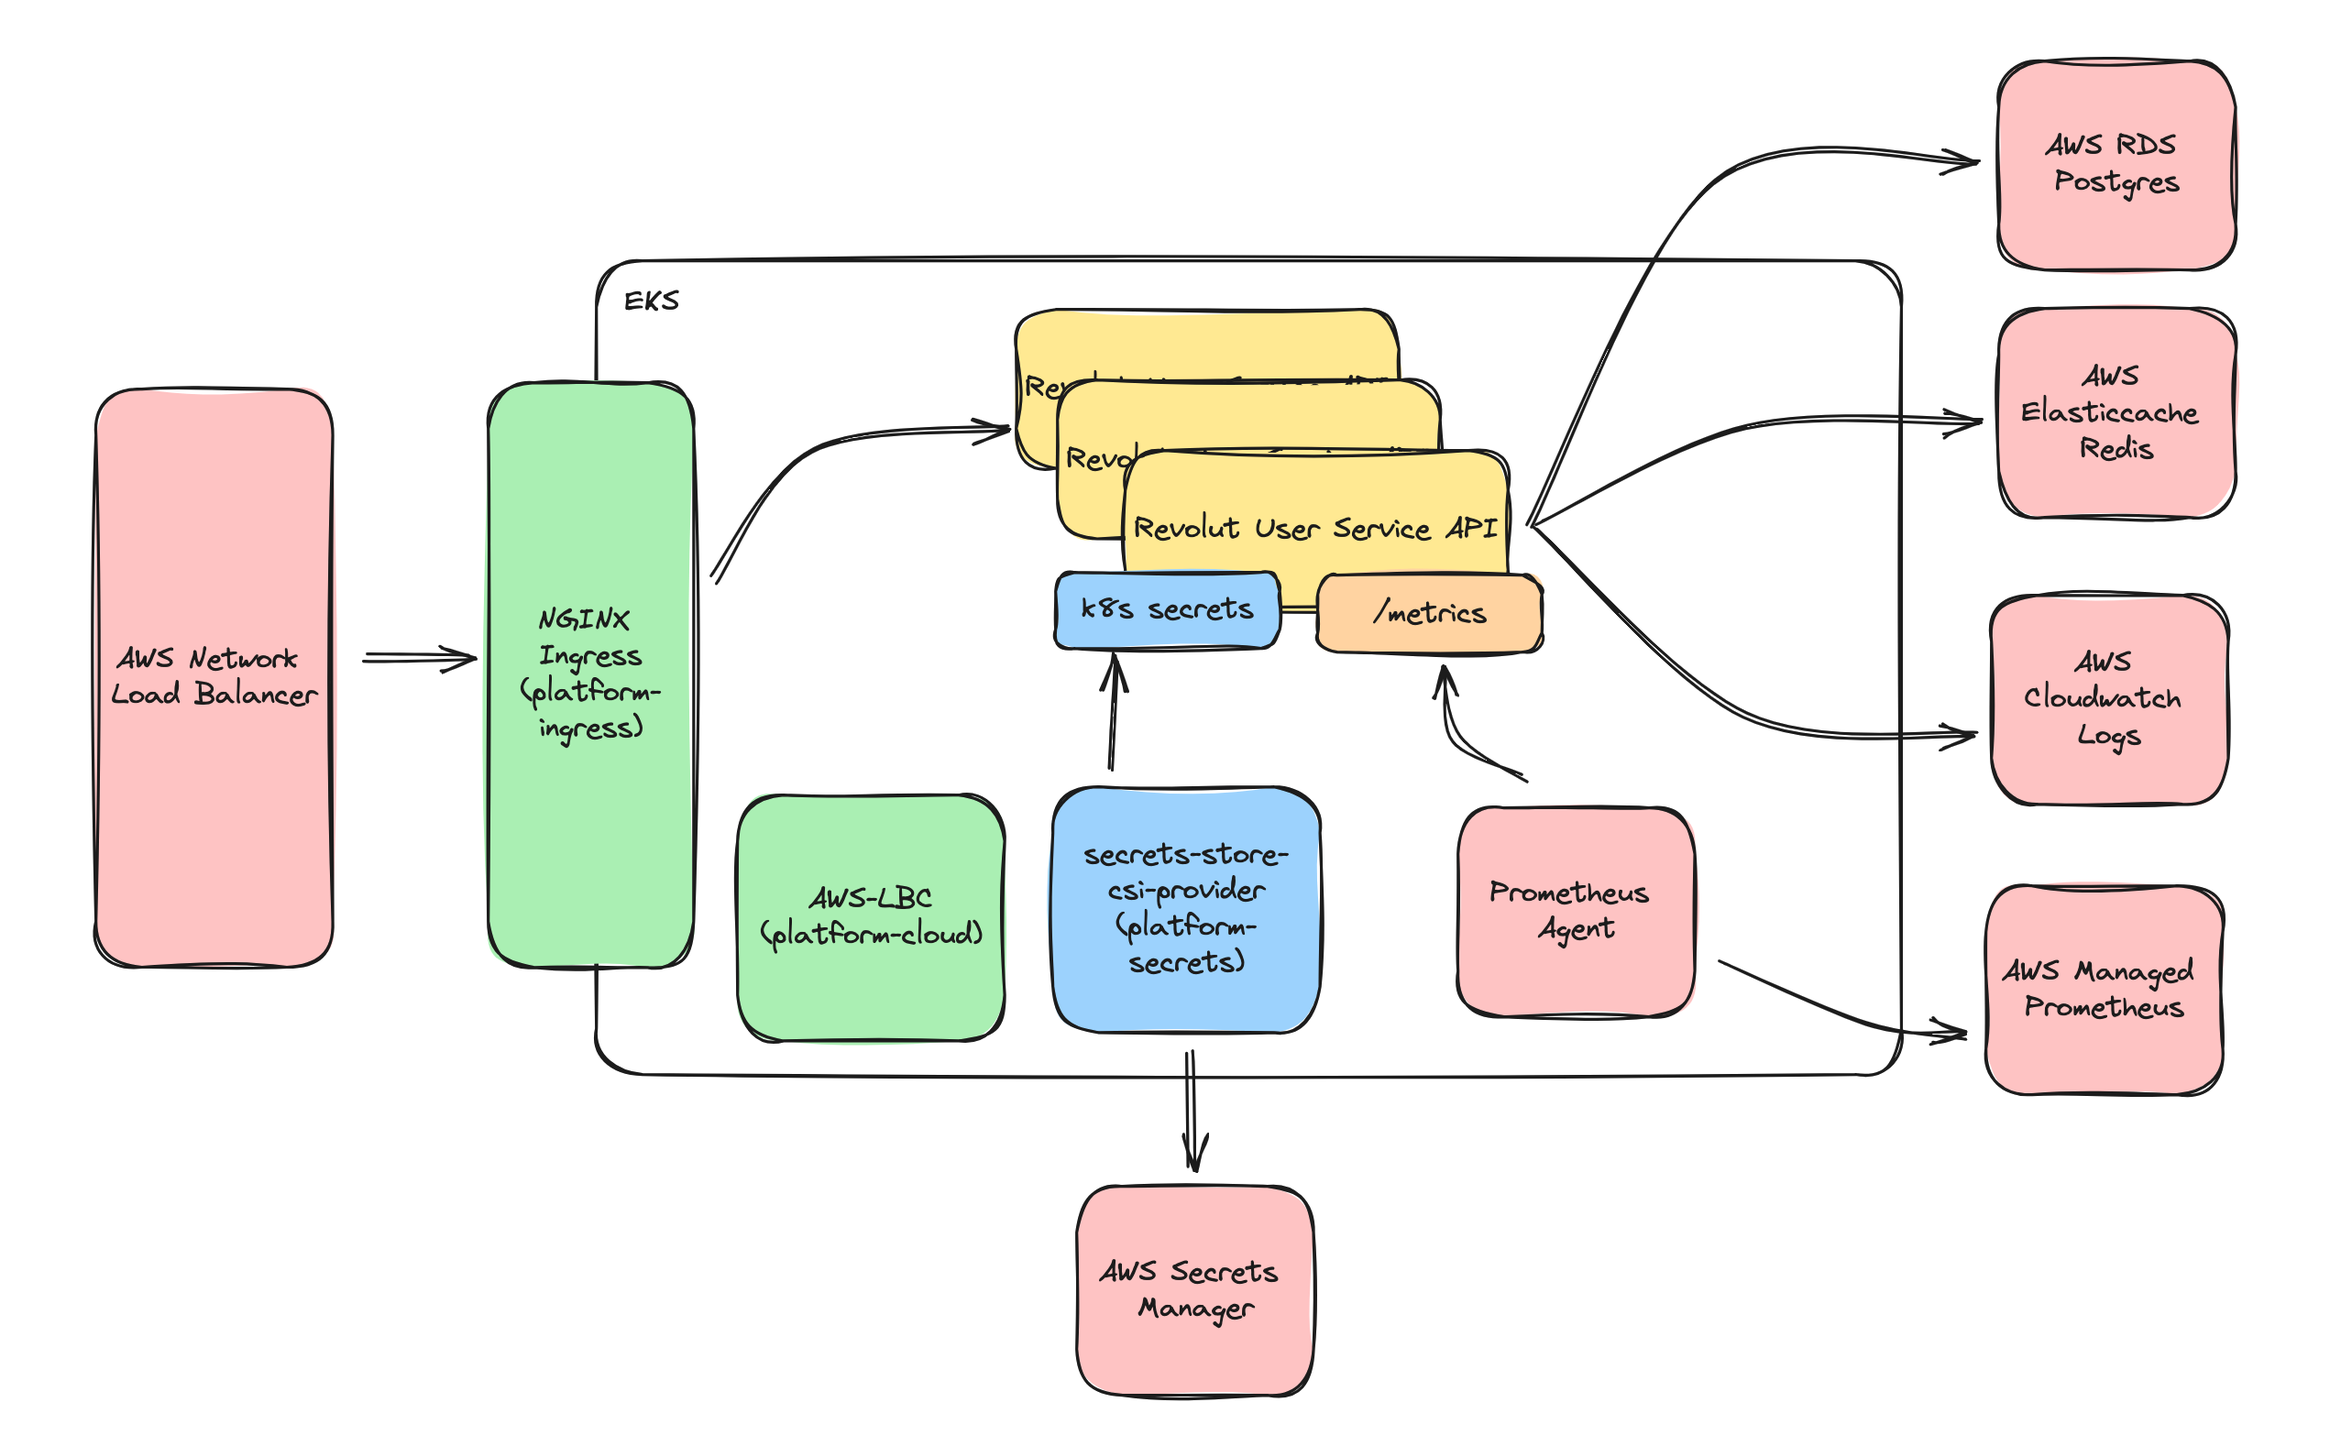
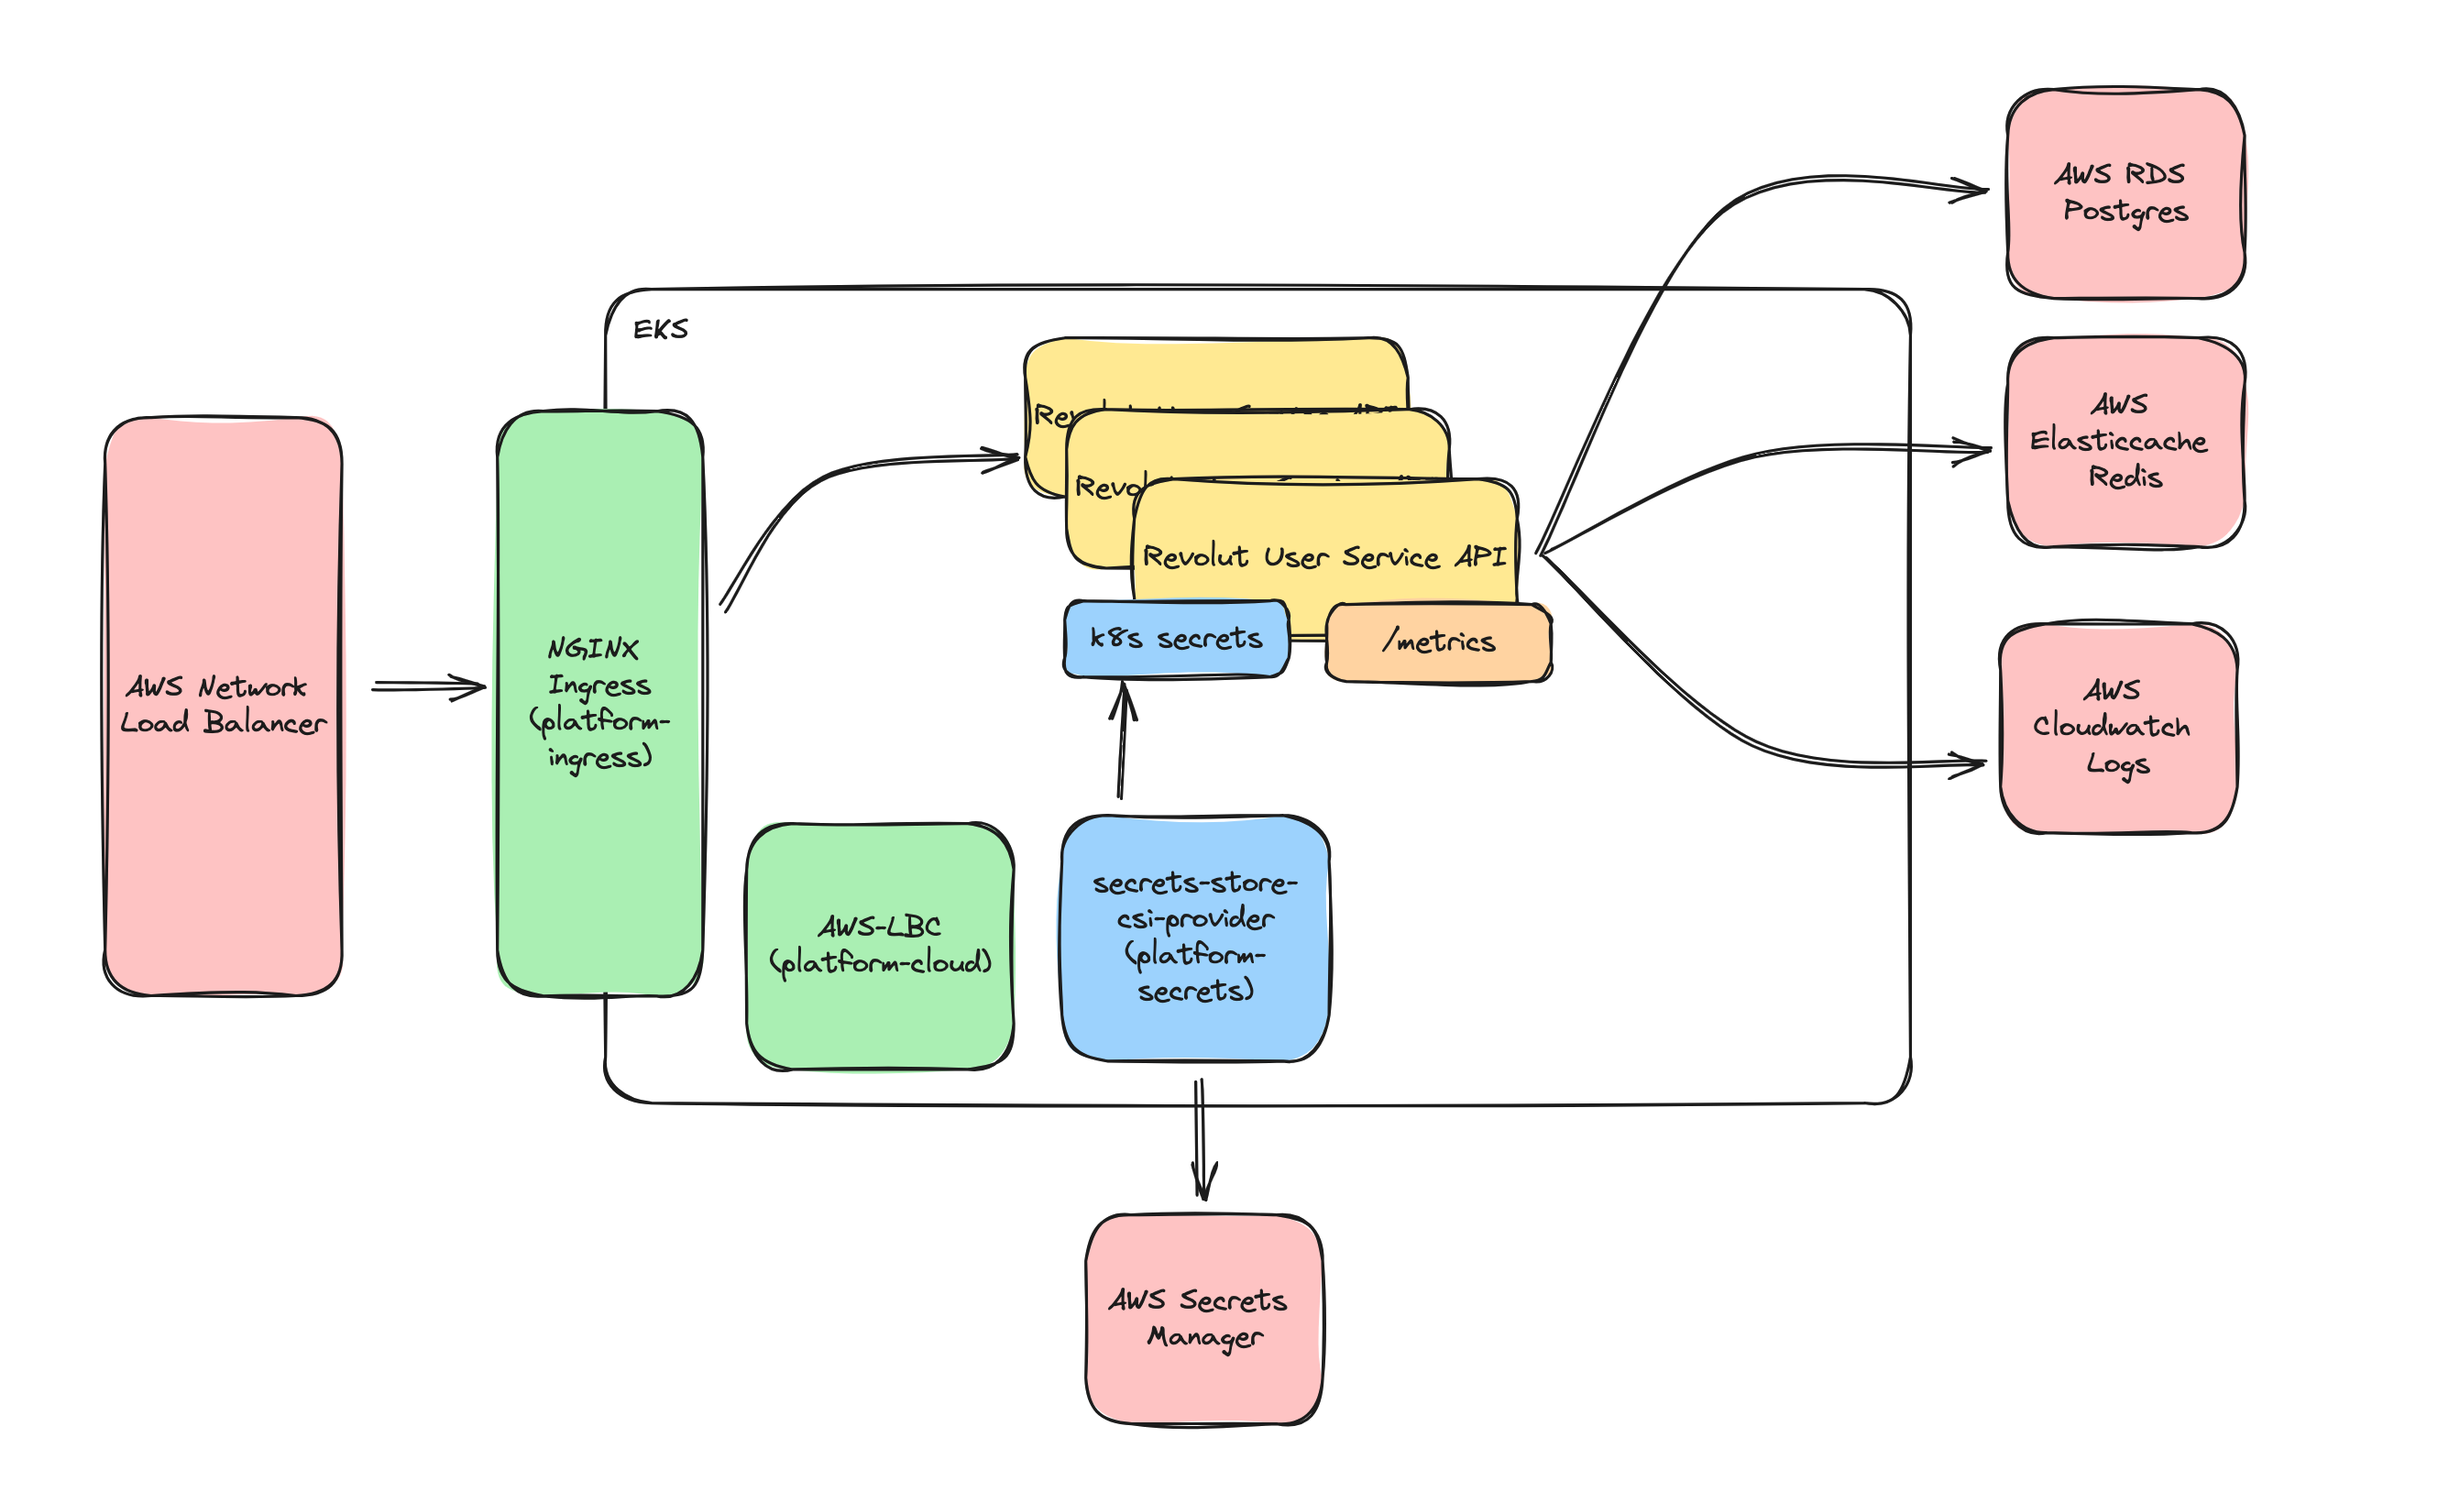
remove prometheus

Changed region(s): [[0.0311, 0.0311, 0.9634, 0.9937], [0.6216, 0.4968, 0.6526, 0.5279]]

diff --git a/docs/architecture.md b/docs/architecture.md
@@ -4,6 +4,20 @@
 
 This Terraform repository provision resources on AWS to support the deployment of [Revolut User Service](https://github.com/awhdesmond/revolut-user-service).
 
+## Reliability Considerations
+
+| Dimension                         | Description                                                                                                                                                           |
+| --------------------------------- | --------------------------------------------------------------------------------------------------------------------------------------------------------------------- |
+| Scalability (Compute)             | Easy to increase number of nodes in EKS Managed Node Groups, or add more node groups.                                                                                 |
+| Scalability (Database)            | Deploy RDS Read Replicas to scale read queries.                                                                                                                       |
+| Reliability (HA)                  | Multi-AZ deployment for EKS, RDS, Elasticache to fend against single AZ failures. Pods of User Service API are deployed across AZs using `topologySpreadConstraints`. |
+| Reliability (Business Continuity) | RDS automated backups.                                                                                                                                                |
+| Performance (latency)             | Leverage on Elasticache to improve latency for read queries, and reduce load on primary RDS instance.                                                                 |
+| Observability                     | Structured logging to Cloudwatch logs. Expose Applications metrics in Prometheus format.                                                                              |
+| Security (Secrets & Encryption)   | Do not store secrets in repository and leverage on AWS Secrets manager to sync secrets into EKS cluster. Encryption enabled for RDS as we are storing user data.      |
+| Security (IAM)                    | Use IRSA and dedicated IAM roles for different cluster workloads. (Principle of least privilege)                                                                      |
+
+
 ## VPC
 
 One VPC is created in `eu-west-1` with 2 public and 2 private subnets.
@@ -46,6 +60,11 @@ An EKS Kubernetes cluster is deployed in the VPC to provide container orchestrat
 
 An ECR repository is created to store container images for the user service.
 
+## CloudWatch Logs
+
+For logs.
+
+
 ## Revolut Service Account Role
 
 We refactor the logic to create IAM roles for EKS Kubernetes service accounts into a module `eks-sa-role`. This module can be used to grant EKS Kubernetes service accounts permissions
@@ -79,10 +98,6 @@ The Secrets Store CSI Driver `secrets-store.csi.k8s.io` allows Kubernetes to mou
 
 Send logs from containers to Amazon CloudWatch Logs.
 
-### Prometheus
-
-Scrape metrics from application services and send them to AWS Managed Prometheus.
-
 ## Applications
 
 ### Revolut User Service
@@ -92,19 +107,6 @@ Kubernetes `Deployment` of a simple "Hello World" application that manages users
 * Spread across AZs using `topologySpreadConstraints`
 * Interacts with RDS and Elasticache
 
-## Reliability Considerations
-
-| Dimension                         | Description                                                                                                                                                      |
-| --------------------------------- | ---------------------------------------------------------------------------------------------------------------------------------------------------------------- |
-| Scalability (Compute)             | Easy to increase number of nodes in EKS Managed Node Groups, or add more node groups.                                                                            |
-| Scalability (Database)            | Deploy RDS Read Replicas to scale read queries.                                                                                                                  |
-| Reliability (HA)                  | Multi-AZ deployment for EKS, RDS, Elasticache  to fend against single AZ failures. User Service API is deployed across AZs using `topologySpreadConstraints`.    |
-| Reliability (Business Continuity) | RDS automated backups.                                                                                                                                           |
-| Performance (latency)             | Leverage on Elasticache to improve latency for read queries, and reduce load on primary RDS instance.                                                            |
-| Operations                        | Structured logging to Cloudwatch logs. Applications metrics scrapped by Prometheus.                                                                              |
-| Security (Secrets & Encryption)   | Do not store secrets in repository and leverage on AWS Secrets manager to sync secrets into EKS cluster. Encryption enabled for RDS as we are storing user data. |
-| Security (IAM)                    | Use IRSA and dedicated IAM roles for different cluster workloads. (Principle of least privilege)                                                                 |
-
 
 ## Future Work
 
@@ -112,3 +114,5 @@ Kubernetes `Deployment` of a simple "Hello World" application that manages users
 2. Secure User Service API endpoint using authentication mechanism such as JWT and service accounts.
 3. Deploy metrics-server and use HPA/KEDA to dynamically autoscale user service deployment based on CPU usage.
 4. Create IPv6 EKS clusters to increase pod density per cluster.
+5. Restrict EKS API Endpoint to only private endpoint.
+

diff --git a/docs/quick-start.md b/docs/quick-start.md
@@ -26,16 +26,12 @@ Store the values of the following terraform output:
    * `rds_password_secret_arn`
    * `rds_password_secret_name`
    * `revolut_user_service_role_arn`
-   * `prometheus_endpoint`
-   * `prometheus_role_arn`
 
 ```bash
 export IMAGE_TAG="0.1.0"
 export CONTAINER_REPOSITORY=revolut-user-service
 export CONTAINER_REGISTRY=<ecr_repo_url from terraform (without the repo)>
 export AWS_LBC_ROLE_ARN=<aws_lbc_role_arn from terraform output>
-export PROMETHEUS_ROLE_ARN=<prometheus_role_arn from terraform output>
-export PROMETHEUS_ENDPOINT=<prometheus_endpoint from terraform output>
 export USER_SERVICE_ROLE_ARN=<revolut_user_service_role_arn from terraform>
 export RDS_HOST=<first rds_hostnames from terraform>
 export REDIS_URI=<elasticache_cluster_configuration_endpoint from terraform>
